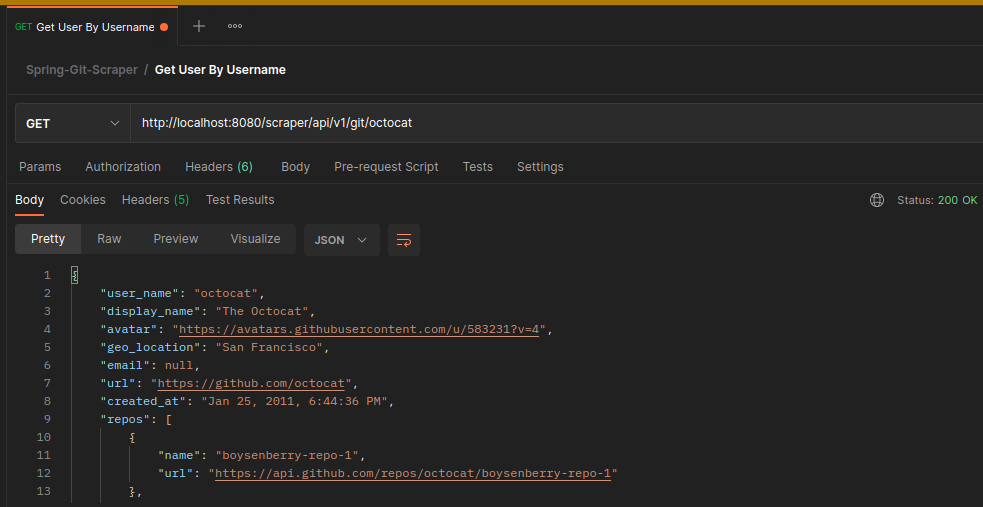
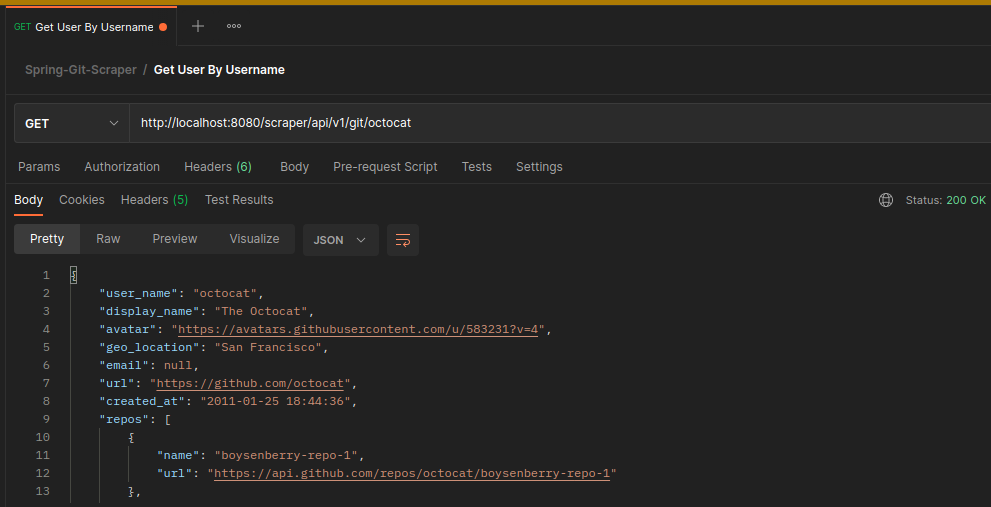
refactors and verbiage changes

diff --git a/src/main/java/com/bemsa/scraper/services/impl/GithubServiceImpl.java b/src/main/java/com/bemsa/scraper/services/impl/GithubServiceImpl.java
@@ -10,6 +10,7 @@ import com.fasterxml.jackson.databind.ObjectMapper;
 import lombok.NonNull;
 import lombok.RequiredArgsConstructor;
 import lombok.extern.slf4j.Slf4j;
+import org.springframework.cache.annotation.Cacheable;
 import org.springframework.http.HttpEntity;
 import org.springframework.http.HttpHeaders;
 import org.springframework.http.HttpMethod;
@@ -20,6 +21,8 @@ import org.springframework.web.client.RestTemplate;
 
 import java.util.List;
 import java.util.Optional;
+
+import static com.bemsa.scraper.constants.ApiConstants.USER_API;
 
 @Slf4j
 @RequiredArgsConstructor
@@ -36,7 +39,7 @@ public class GithubServiceImpl implements GithubService {
     }
 
     @Override
-//    @Cacheable(value = "users")
+    @Cacheable(value = "users")
     @Retryable(
             value = DataNotFoundException.class,
             maxAttemptsExpression = "${retry.maxAttempts}",
@@ -50,9 +53,6 @@ public class GithubServiceImpl implements GithubService {
             List<GitRepo> repos = mapper.readValue(repoJson, new TypeReference<>(){});
             gitUser.setRepos(repos);
 
-            //TODO: 5. cache the data
-            //TODO: 6. return cached data
-
             return gitUser;
         } catch (Exception e) {
             log.error(e.getMessage(), e);
@@ -60,25 +60,26 @@ public class GithubServiceImpl implements GithubService {
         }
     }
 
-    private String getRequestBody(@NonNull String url, @NonNull String username) {
+    private String getRequestBody(String url, String username) {
         return restTemplate.exchange(
                 url,
                 HttpMethod.GET,
                 httpEntity(),
                 String.class,
                 username
-        ).getBody();
+        )
+        .getBody();
     }
 
     private String getUserJson(String username) {
         return Optional
-                .ofNullable(getRequestBody("/{username}", username))
+                .ofNullable(getRequestBody(USER_API, username))
                 .orElseThrow(() -> new DataNotFoundException(String.format("User %s not found", username)));
     }
 
     private String getRepoJson(String username) {
         return Optional
-                .ofNullable(getRequestBody("/{username}/repos", username))
+                .ofNullable(getRequestBody(USER_API + "/repos", username))
                 .orElseThrow(() -> new DataNotFoundException(String.format("No repos found for user: %s", username)));
     }
 }

diff --git a/src/main/java/com/bemsa/scraper/config/ApplicationConfig.java b/src/main/java/com/bemsa/scraper/config/ApplicationConfig.java
@@ -17,6 +17,8 @@ import java.text.SimpleDateFormat;
 import java.time.Duration;
 import java.util.List;
 
+import static com.bemsa.scraper.constants.ApiConstants.DATE_FORMAT;
+
 @Configuration
 @EnableCaching
 @EnableRetry
@@ -36,20 +38,10 @@ public class ApplicationConfig {
     @Bean
     public ObjectMapper objectMapper() {
         ObjectMapper mapper = new ObjectMapper();
-        mapper.setDateFormat(new SimpleDateFormat("yyyy-MM-dd HH:mm:ss"));
+        mapper.setDateFormat(new SimpleDateFormat(DATE_FORMAT));
         mapper.registerModule(new JavaTimeModule());
         return mapper;
     }
-
-//    @Bean
-//    public WebClient webClient(WebClient.Builder builder) {
-//        //TODO: Look for possible headers and/or cookies?
-//        return builder
-//                .baseUrl(githubUrl)
-////                .defaultHeader("", "")
-////                .defaultCookie("", "")
-//                .build();
-//    }
 
     @Bean
     public CacheManager cacheManager() {

diff --git a/src/main/java/com/bemsa/scraper/models/GitUserUI.java b/src/main/java/com/bemsa/scraper/models/GitUserUI.java
@@ -6,8 +6,9 @@ import lombok.Getter;
 import lombok.NonNull;
 
 import java.time.format.DateTimeFormatter;
-import java.time.format.FormatStyle;
 import java.util.List;
+
+import static com.bemsa.scraper.constants.ApiConstants.DATE_FORMAT;
 
 @Getter
 @JsonPropertyOrder({"user_name", "display_name", "avatar", "geo_location", "email", "url", "created_at", "repos"})
@@ -46,7 +47,7 @@ public final class GitUserUI {
         this.avatar = gitUser.getAvatarUrl();
         this.geoLocation = gitUser.getLocation();
         this.url = gitUser.getUrl();
-        this.createdAt = gitUser.getCreatedAt().format(DateTimeFormatter.ofLocalizedDateTime(FormatStyle.MEDIUM));
+        this.createdAt = gitUser.getCreatedAt().format(DateTimeFormatter.ofPattern(DATE_FORMAT));
         this.repos = gitUser.getRepos();
     }
 }

diff --git a/src/main/java/com/bemsa/scraper/constants/ApiConstants.java b/src/main/java/com/bemsa/scraper/constants/ApiConstants.java
@@ -1,15 +1,13 @@
 package com.bemsa.scraper.constants;
 
-/**
- * Created by bel-sahn on 7/29/19
- */
-public final class ApiConstants {
-//region PROPERTIES
-    public static final String VALUE = "VALUE";
-//endregion
+import lombok.AccessLevel;
+import lombok.NoArgsConstructor;
 
-//region CONSTRUCTORS
-    private ApiConstants(){}
-//endregion
+@NoArgsConstructor(access = AccessLevel.PRIVATE)
+public final class ApiConstants {
+
+    public static final String DATE_FORMAT = "yyyy-MM-dd HH:mm:ss";
+
+    public static final String USER_API = "/{username}";
 
 }
